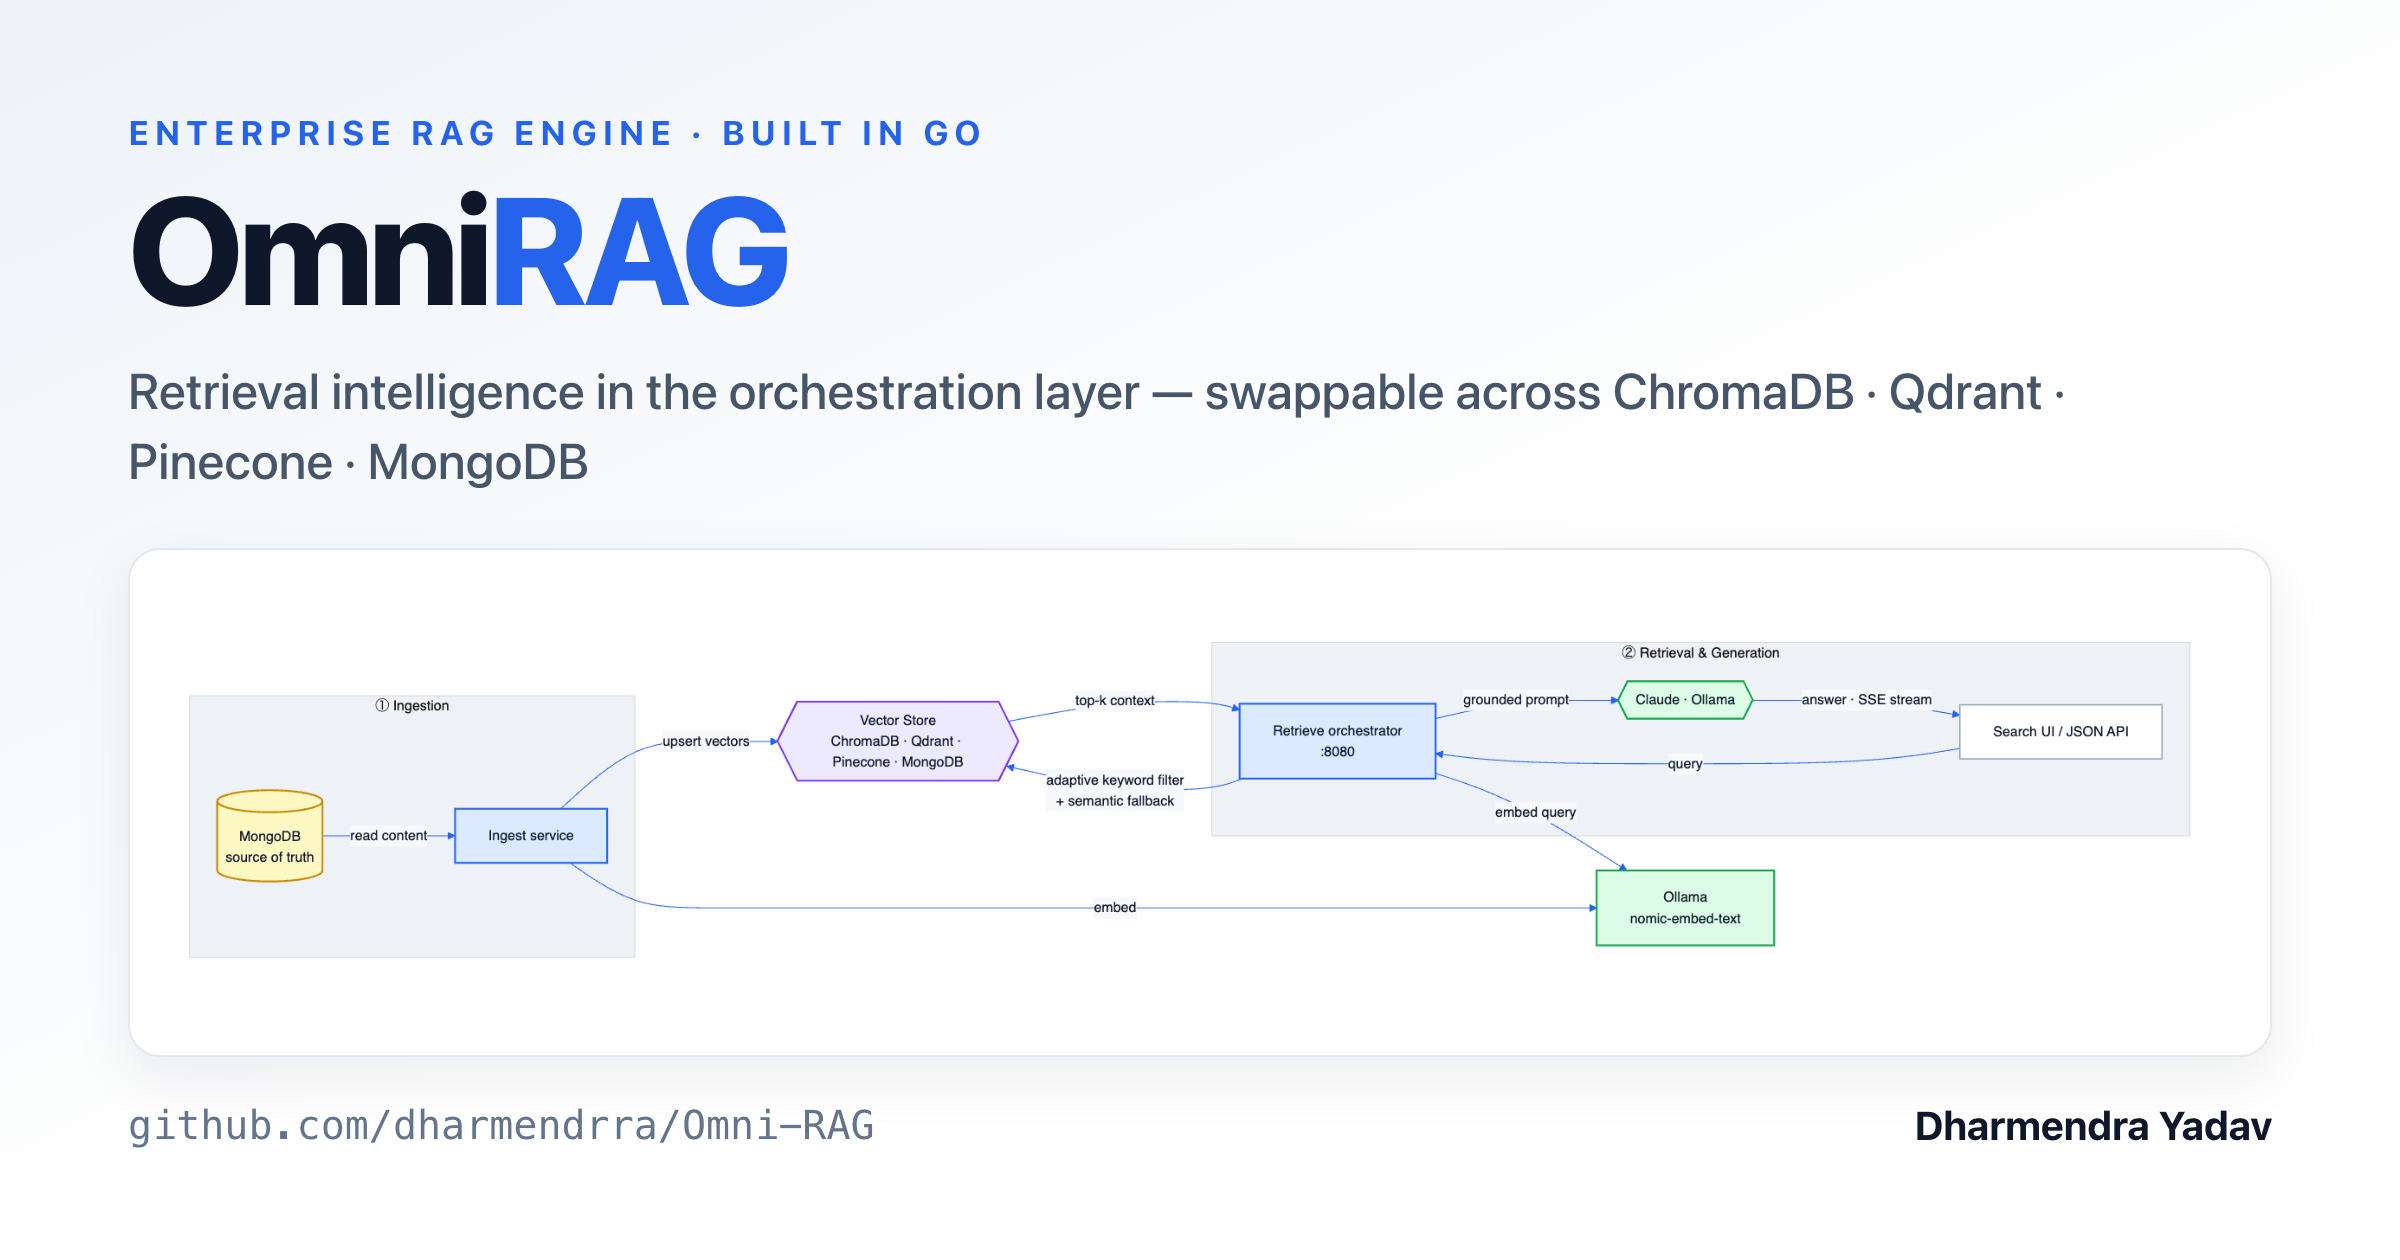
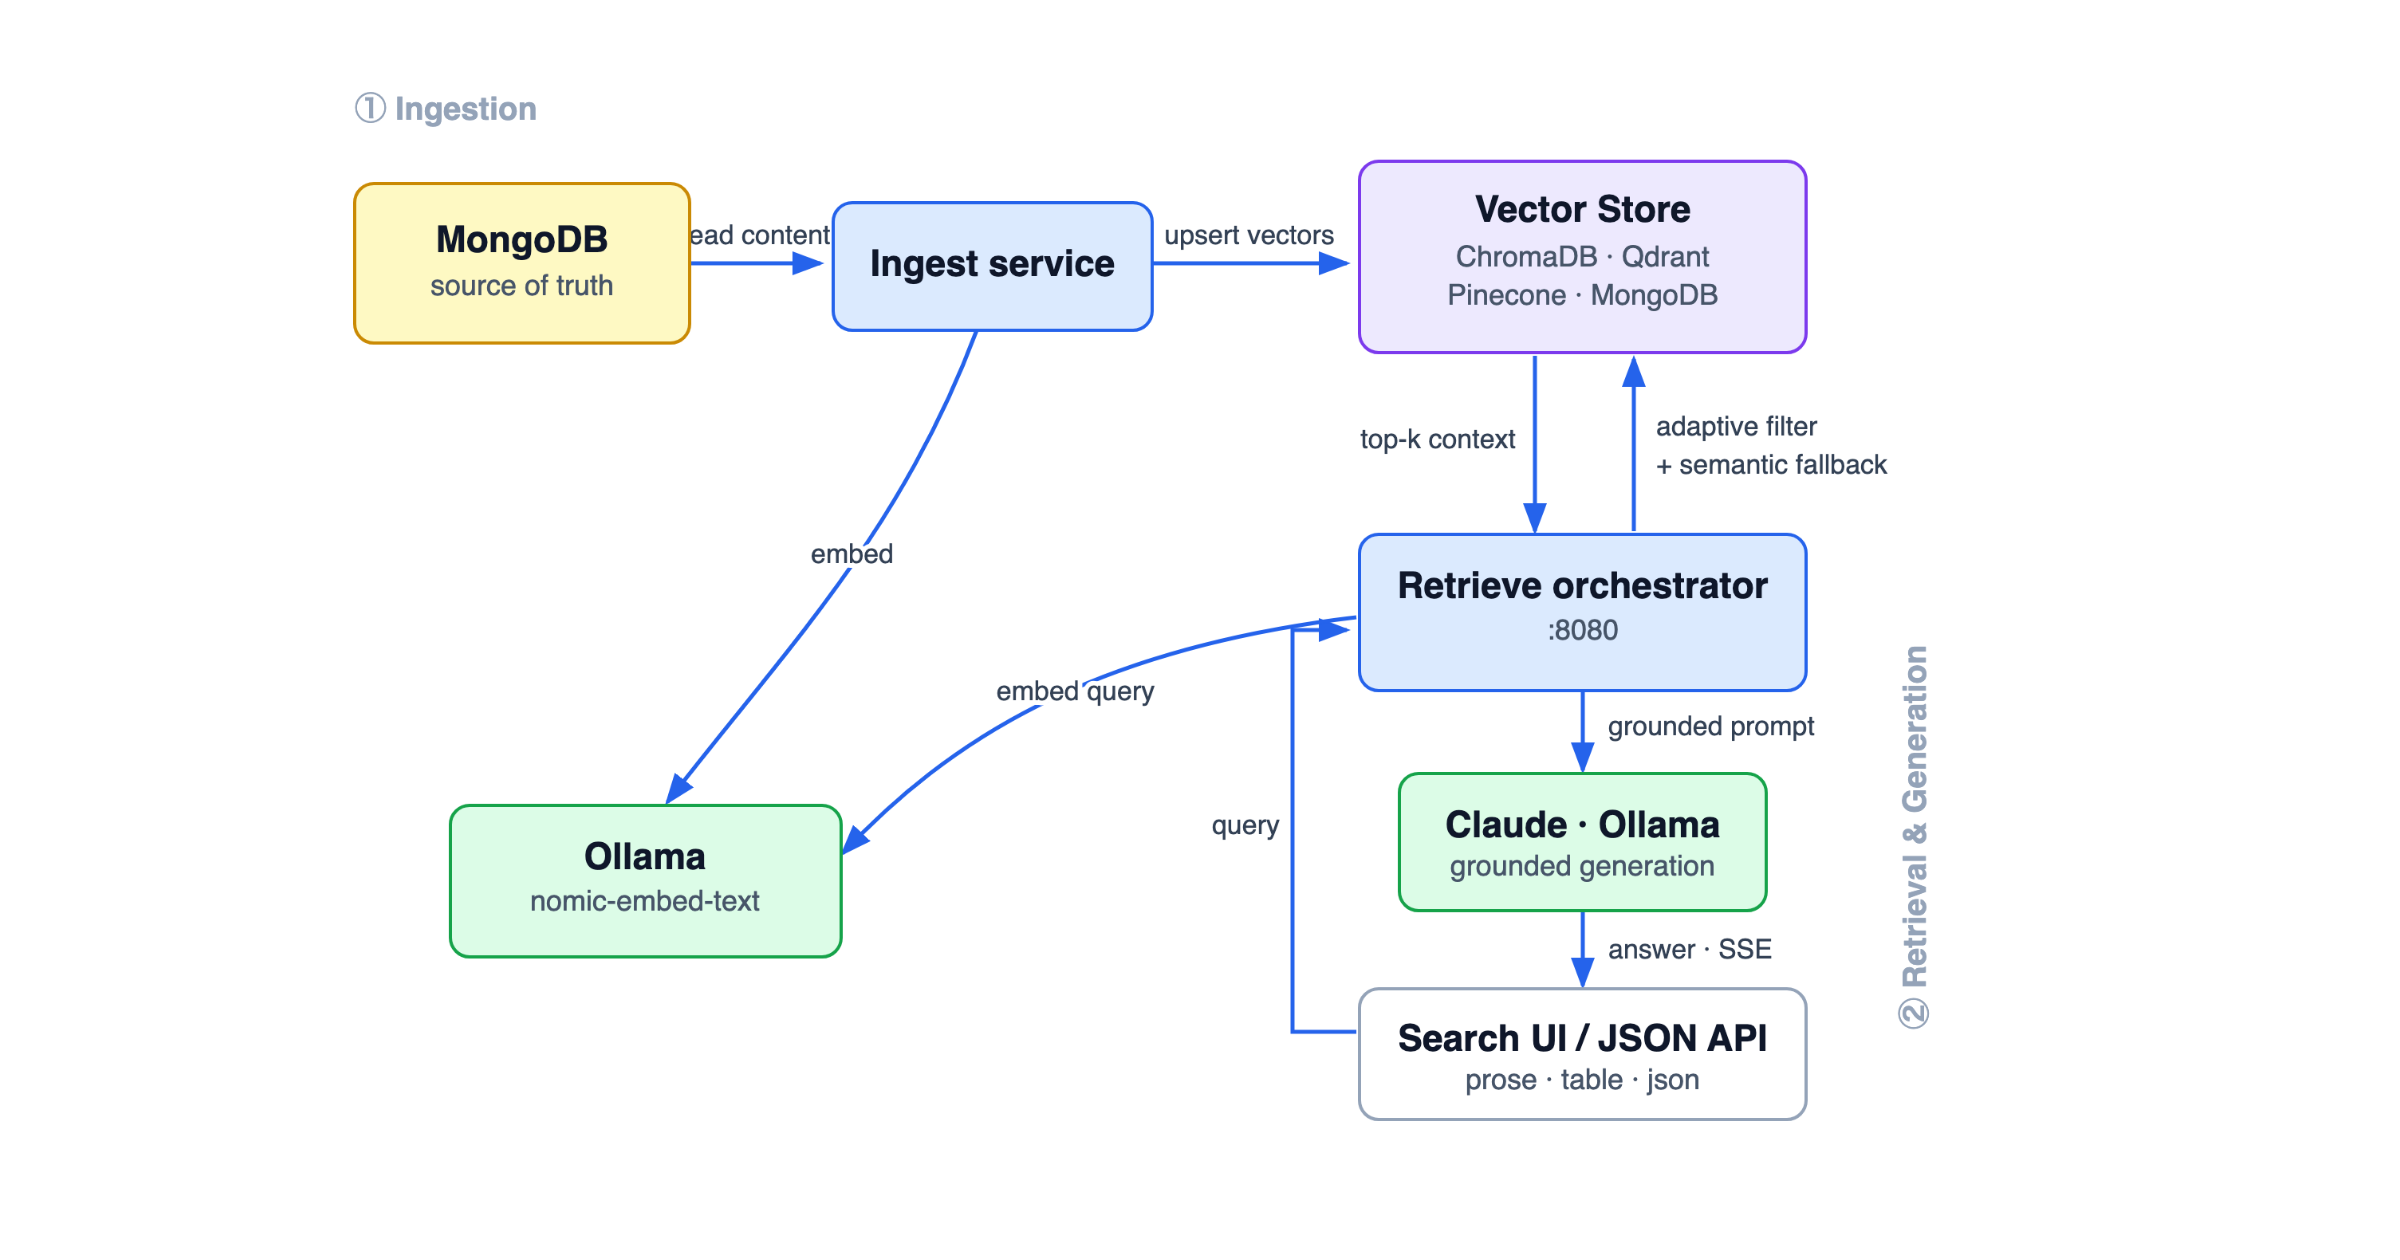
docs: redesign DFD as an L-shape and make the social preview DFD-only
Re-author the data-flow diagram as hand-built SVG so the flow bends —
ingestion runs horizontally across the top, retrieval/generation runs
vertically down the right — filling both width and height instead of one
long horizontal strip (Mermaid couldn't hold per-subgraph directions).
The OG/social card now shows just the diagram, no title chrome. Replaces
the stale architecture.mmd with architecture.svg as the source.

diff --git a/docs/diagrams/og-card.html b/docs/diagrams/og-card.html
@@ -6,33 +6,16 @@
   * { box-sizing: border-box; margin: 0; padding: 0; }
   html, body { width: 1200px; height: 630px; overflow: hidden; }
   body {
-    font-family: 'Inter', -apple-system, BlinkMacSystemFont, 'Segoe UI', sans-serif;
-    background: linear-gradient(155deg, #eef2f7 0%, #ffffff 55%);
-    color: #0f172a;
-    -webkit-font-smoothing: antialiased;
+    background: #ffffff;
+    display: flex;
+    align-items: center;
+    justify-content: center;
+    padding: 28px 36px;
   }
-  .card { width: 1200px; height: 630px; padding: 56px 64px; display: flex; flex-direction: column; }
-  .kicker { text-transform: uppercase; letter-spacing: .18em; font-size: 17px; font-weight: 700; color: #2563eb; }
-  .title { font-size: 76px; font-weight: 800; letter-spacing: -0.03em; margin-top: 10px; line-height: 1; }
-  .title span { color: #2563eb; }
-  .sub { font-size: 25px; color: #475569; margin-top: 16px; max-width: 1000px; line-height: 1.4; font-weight: 500; }
-  .diagram { flex: 1; margin-top: 26px; background: #fff; border: 1px solid #e2e8f0; border-radius: 16px; box-shadow: 0 10px 30px rgba(15,23,42,.08); display: flex; align-items: center; justify-content: center; padding: 22px 26px; }
-  .diagram img { max-width: 100%; max-height: 100%; object-fit: contain; }
-  .foot { display: flex; justify-content: space-between; align-items: center; margin-top: 22px; font-size: 20px; }
-  .foot .repo { font-family: 'JetBrains Mono', ui-monospace, monospace; color: #64748b; }
-  .foot .who { font-weight: 700; color: #0f172a; }
+  img { max-width: 100%; max-height: 100%; object-fit: contain; }
 </style>
 </head>
 <body>
-  <div class="card">
-    <div class="kicker">Enterprise RAG Engine · Built in Go</div>
-    <div class="title">Omni<span>RAG</span></div>
-    <div class="sub">Retrieval intelligence in the orchestration layer — swappable across ChromaDB · Qdrant · Pinecone · MongoDB</div>
-    <div class="diagram"><img src="architecture.png" alt="OmniRAG data-flow diagram" /></div>
-    <div class="foot">
-      <span class="repo">github.com/dharmendrra/Omni-RAG</span>
-      <span class="who">Dharmendra Yadav</span>
-    </div>
-  </div>
+  <img src="architecture.png" alt="OmniRAG data-flow diagram" />
 </body>
 </html>
